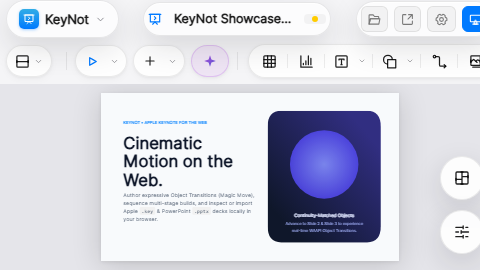
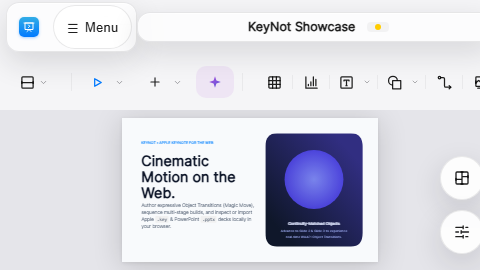
fix(ui): flatten responsive editor hierarchy

diff --git a/src/components/ui/ResponsiveSheet.vue b/src/components/ui/ResponsiveSheet.vue
@@ -1,7 +1,7 @@
 <template>
   <Teleport to="body">
     <Transition name="sheet">
-      <div v-if="visible" class="sheet-layer" @keydown.esc.prevent="closeSheet">
+      <div v-if="visible" ref="sheetLayer" class="sheet-layer" @keydown.esc.prevent="closeSheet" @keydown.tab="trapFocus">
         <button class="sheet-scrim" :aria-label="t('common.close')" @click="closeSheet"></button>
         <GlassSurface class="responsive-sheet" variant="elevated" role="dialog" aria-modal="true" :aria-label="title">
           <header class="sheet-header">
@@ -17,16 +17,28 @@
 </template>
 
 <script setup lang="ts">
-import { nextTick, watch } from 'vue'
+import { nextTick, ref, watch } from 'vue'
 import { t } from '@/i18n'
 import GlassSurface from './GlassSurface.vue'
 import PillButton from './PillButton.vue'
 
 const props = defineProps<{ visible: boolean; title: string; canGoBack?: boolean; returnFocus?: HTMLElement | null }>()
 const emit = defineEmits<{ close: []; back: [] }>()
+const sheetLayer = ref<HTMLElement | null>(null)
 const closeSheet = () => emit('close')
+const focusableElements = () => Array.from(sheetLayer.value?.querySelectorAll<HTMLElement>('button:not(:disabled), [href], input:not(:disabled), [tabindex]:not([tabindex="-1"])') || [])
+const trapFocus = (event: KeyboardEvent) => {
+  const items = focusableElements()
+  if (!items.length) return
+  const first = items[0]
+  const last = items[items.length - 1]
+  if (event.shiftKey && document.activeElement === first) { event.preventDefault(); last.focus() }
+  else if (!event.shiftKey && document.activeElement === last) { event.preventDefault(); first.focus() }
+}
 watch(() => props.visible, async visible => {
-  if (!visible) { await nextTick(); props.returnFocus?.focus() }
+  await nextTick()
+  if (visible) focusableElements()[0]?.focus()
+  else props.returnFocus?.focus()
 })
 </script>
 

diff --git a/scripts/test-responsive-layout.ts b/scripts/test-responsive-layout.ts
@@ -15,8 +15,10 @@ console.log('=== KeyNot Responsive Layout & Modernization Test Suite ===\n')
   assert.ok(mobileMenu.includes('min-height: var(--control-touch)'), 'Mobile menu rows must meet touch sizing')
   assert.ok(sheet.includes('role="dialog"'), 'Responsive sheet must use dialog semantics')
   assert.ok(sheet.includes('returnFocus'), 'Responsive sheet must restore trigger focus')
+  assert.ok(sheet.includes('trapFocus'), 'Responsive sheet must contain keyboard focus')
   assert.ok(menuBar.includes('<MobileCommandMenu'), 'Menu bar must select the mobile renderer')
   assert.ok(branch.includes('opens-left'), 'Desktop nested menus must support leftward placement')
+  assert.ok(branch.includes('@focusin="placeSubmenu'), 'Keyboard focus must also calculate submenu edge placement')
 }
 
 // 1. Breakpoint Tier Calculations
@@ -62,6 +64,7 @@ console.log('\n[2/5] Testing Editor Adaptive Layout & Drawer Toggles...')
   const headerSrc = fs.readFileSync(path.resolve('src/views/Editor/EditorHeader/index.vue'), 'utf-8')
   const canvasToolSrc = fs.readFileSync(path.resolve('src/views/Editor/CanvasTool/index.vue'), 'utf-8')
   assert.ok(headerSrc.includes("import FloatingRail from '@/components/ui/FloatingRail.vue'"), 'Header must consume shared floating rails')
+  assert.ok(!headerSrc.includes(':deep(.keynote-menu-bar)'), 'Header must not hide the responsive menu component at tablet/mobile widths')
   assert.ok(canvasToolSrc.includes("import FloatingRail from '@/components/ui/FloatingRail.vue'"), 'Creation toolbar must consume shared floating rails')
   assert.ok(canvasToolSrc.includes('<FloatingRail'), 'Creation toolbar must render as a shared rail')
   assert.ok(canvasToolSrc.includes('scroll-snap-type: x proximity'), 'Narrow toolbar must use scroll snap')

diff --git a/src/views/Editor/EditorHeader/index.vue b/src/views/Editor/EditorHeader/index.vue
@@ -521,6 +521,8 @@ const openThemeChooser = () => {
 .left, .right, .center-title {
   display: flex;
   align-items: center;
+  border-radius: 13px;
+  padding: 2px 4px;
 }
 .native-file-input { display: none; }
 .app-menu-btn {
@@ -731,6 +733,33 @@ const openThemeChooser = () => {
 
 }
 
+/* Flat hierarchy: glass belongs to rails; actions inside them stay quiet. */
+.left, .right, .center-title {
+  .header-pill,
+  .app-menu-btn,
+  .save-status-pill {
+    border-color: transparent;
+    box-shadow: none;
+  }
+
+  .header-pill {
+    background: transparent;
+    border-radius: 9px;
+
+    &:hover {
+      background: var(--bg-control, rgba(0, 0, 0, 0.05));
+    }
+  }
+}
+
+@media (min-width: 1025px) {
+  .center-title {
+    position: absolute;
+    left: 50%;
+    transform: translateX(-50%);
+  }
+}
+
 .popover-menu-item {
   display: flex;
   padding: 8px 10px;
@@ -837,9 +866,6 @@ const openThemeChooser = () => {
   }
 }
 @media (max-width: 1024px) {
-  :deep(.keynote-menu-bar) {
-    display: none;
-  }
   .report-pill, .offline-pill {
     display: none;
   }
@@ -852,6 +878,23 @@ const openThemeChooser = () => {
     display: none;
   }
   .header-pill span {
+    display: none;
+  }
+  .right {
+    display: none;
+  }
+  .left {
+    flex: 0 0 auto;
+  }
+  .center-title {
+    flex: 1 1 auto;
+    justify-content: center;
+    min-width: 0;
+  }
+  .app-menu-btn .app-name,
+  .app-menu-btn .caret,
+  .center-title .doc-icon,
+  .center-title .ext {
     display: none;
   }
   .header-pill {

diff --git a/src/views/Editor/CanvasTool/index.vue b/src/views/Editor/CanvasTool/index.vue
@@ -557,6 +557,10 @@ const openThemeChooser = () => {
   padding: 0 14px;
   user-select: none;
   z-index: 10;
+  margin: 3px 10px;
+  width: calc(100% - 20px);
+  height: 40px;
+  border-radius: 14px;
 }
 
 .toolbar-cluster {
@@ -932,13 +936,56 @@ const openThemeChooser = () => {
 
 @media screen and (max-width: 768px) {
   .canvas-tool {
-    padding: 0 6px;
-    height: 42px;
+    margin: 3px 6px;
+    width: calc(100% - 12px);
+    padding: 3px 5px;
+    height: 44px;
   }
   .left-cluster .zoom-pill,
   .left-cluster .undo-capsule,
   .left-cluster .ai-capsule-btn span {
     display: none;
+  }
+}
+
+/* Flat hierarchy: one glass rail, borderless inner controls. */
+.canvas-tool {
+  .keynote-pill-btn,
+  .keynote-pill-capsule,
+  .keynote-insert-capsule,
+  .keynote-inspector-capsule {
+    background: transparent;
+    border-color: transparent;
+    box-shadow: none;
+    border-radius: 10px;
+  }
+
+  .keynote-pill-btn:hover,
+  .keynote-pill-capsule:hover,
+  .keynote-insert-capsule:hover,
+  .keynote-inspector-capsule:hover {
+    background: var(--bg-control, rgba(0, 0, 0, 0.04));
+    box-shadow: none;
+    transform: none;
+  }
+
+  .capsule-item,
+  .capsule-caret,
+  .insert-item,
+  .insert-item-split,
+  .insert-item-split .split-left,
+  .insert-item-split .split-right,
+  .inspector-item {
+    border-radius: 8px;
+  }
+
+  .ai-capsule-btn {
+    background: rgba(175, 82, 222, 0.09);
+  }
+
+  .pill-divider,
+  .insert-sep {
+    opacity: .65;
   }
 }
 </style>

diff --git a/scripts/test-dark-mode-and-buttons.ts b/scripts/test-dark-mode-and-buttons.ts
@@ -30,6 +30,7 @@ console.log('[1/6] Testing CanvasTool and EditorHeader button cleanliness...')
 
   // CanvasTool right cluster must contain the 3 standard Keynote inspector triggers
   assert.ok(canvasToolSrc.includes('keynote-inspector-capsule'), 'CanvasTool must contain keynote-inspector-capsule')
+  assert.ok(canvasToolSrc.includes('Flat hierarchy: one glass rail, borderless inner controls'), 'Canvas toolbar must avoid nested glass pills')
   assert.ok(canvasToolSrc.includes("switchInspectorGroup('format')"), 'Must have format inspector trigger')
   assert.ok(canvasToolSrc.includes("switchInspectorGroup('animate')"), 'Must have animate inspector trigger')
   assert.ok(canvasToolSrc.includes("switchInspectorGroup('document')"), 'Must have document inspector trigger')
@@ -41,6 +42,7 @@ console.log('[1/6] Testing CanvasTool and EditorHeader button cleanliness...')
   // EditorHeader must have PreferencesModal trigger
   assert.ok(editorHeaderSrc.includes('preferencesModalVisible'), 'EditorHeader must expose preferencesModal')
   assert.ok(editorHeaderSrc.includes('<PreferencesModal'), 'EditorHeader must mount PreferencesModal')
+  assert.ok(editorHeaderSrc.includes('Flat hierarchy: glass belongs to rails'), 'Header must keep glass on rails and inner actions flat')
 
   console.log('  PASS: Header and canvas toolbar are clean; dark mode & language are relegated to Preferences.')
 }

diff --git a/src/views/Editor/EditorHeader/MenuBranch.vue b/src/views/Editor/EditorHeader/MenuBranch.vue
@@ -1,6 +1,6 @@
 <template>
   <div class="menu-branch">
-    <div v-for="command in commands" :key="command.id" class="command-wrap" @mouseenter="placeSubmenu(command.id, $event)">
+    <div v-for="command in commands" :key="command.id" class="command-wrap" @mouseenter="placeSubmenu(command.id, $event)" @focusin="placeSubmenu(command.id, $event)">
       <button
         class="command"
         role="menuitem"
@@ -26,7 +26,7 @@ import type { KeynoteCommand } from '@/commands/keynoteCommands'
 defineProps<{ commands: KeynoteCommand[] }>()
 const emit = defineEmits<{ (event: 'execute', commandId: string): void }>()
 const opensLeft = reactive<Record<string, boolean>>({})
-const placeSubmenu = (id: string, event: MouseEvent) => {
+const placeSubmenu = (id: string, event: Event) => {
   const rect = (event.currentTarget as HTMLElement).getBoundingClientRect()
   opensLeft[id] = rect.right + 220 > window.innerWidth
 }

diff --git a/src/views/Editor/index.vue b/src/views/Editor/index.vue
@@ -177,6 +177,11 @@ usePasteEvent()
   @include bp(tablet) {
     --thumbs-w: 128px;
   }
+
+  &.tier-mobile {
+    --header-h: 54px;
+    --toolbar-h: 50px;
+  }
 }
 .layout-header {
   height: var(--header-h);
